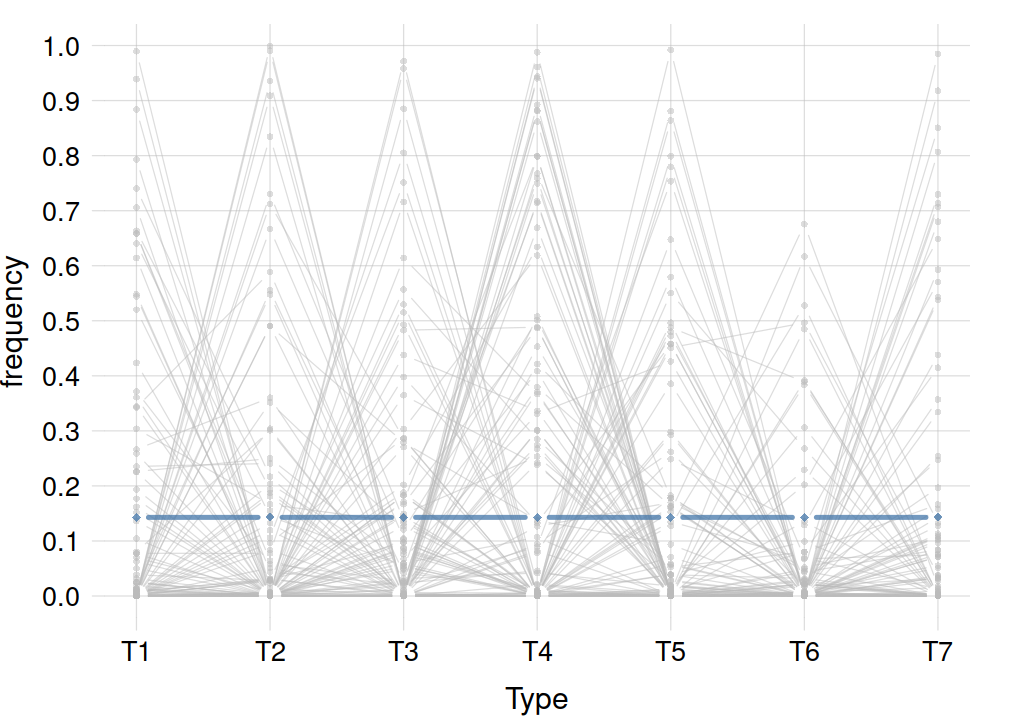
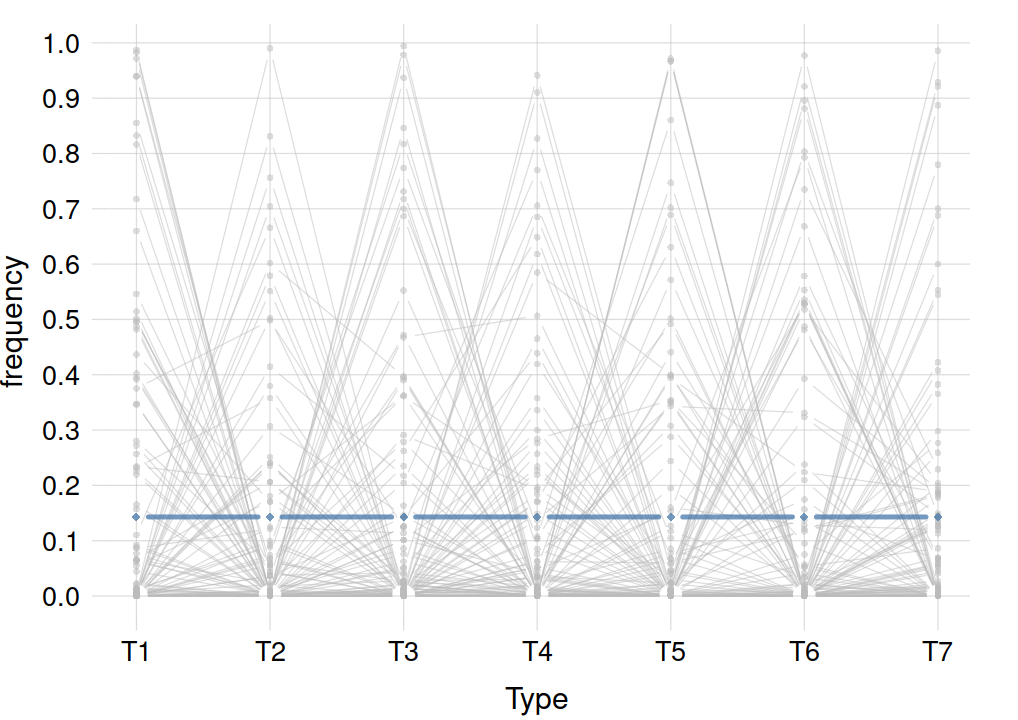
update population inference

diff --git a/docs/glass_application_R.html b/docs/glass_application_R.html
@@ -477,29 +477,29 @@ pre > code.sourceCode > span > a:first-child::before { text-decoration: underlin
 <li><p><span class="small"><em>Units</em>: glass fragments collected at particularly defined crime scenes.</span></p></li>
 <li><p><span class="small"><em>Variates</em>:</span></p>
 <ul>
-<li><span class="small"><span class="math inline">\(\mathit{RI}\)</span>, ordinal, domain <span class="math inline">\(\set{1,\dotsc,5}\)</span>: Refractive Index of the fragment</span></li>
-<li><span class="small"><span class="math inline">\(\mathit{Na}\)</span>, ordinal, domain <span class="math inline">\(\set{1,\dotsc,5}\)</span>: Natrium content of the fragment</span></li>
-<li><span class="small"><span class="math inline">\(\mathit{Mg}\)</span>, ordinal, domain <span class="math inline">\(\set{1,\dotsc,5}\)</span>: Magnesium content of the fragment</span></li>
-<li><span class="small"><span class="math inline">\(\mathit{Al}\)</span>, ordinal, domain <span class="math inline">\(\set{1,\dotsc,5}\)</span>: Aluminium content of the fragment</span></li>
-<li><span class="small"><span class="math inline">\(\mathit{Si}\)</span>, ordinal, domain <span class="math inline">\(\set{1,\dotsc,5}\)</span>: Silicon content of the fragment</span></li>
-<li><span class="small"><span class="math inline">\(\mathit{K}\)</span>, ordinal, domain <span class="math inline">\(\set{1,\dotsc,5}\)</span>: Potassium content of the fragment</span></li>
-<li><span class="small"><span class="math inline">\(\mathit{Ca}\)</span>, ordinal, domain <span class="math inline">\(\set{1,\dotsc,5}\)</span>: Calcium content of the fragment</span></li>
-<li><span class="small"><span class="math inline">\(\mathit{Ba}\)</span>, ordinal, domain <span class="math inline">\(\set{1,\dotsc,5}\)</span>: Barium content of the fragment</span></li>
-<li><span class="small"><span class="math inline">\(\mathit{Fe}\)</span>, ordinal, domain <span class="math inline">\(\set{1,\dotsc,5}\)</span>: Iron content of the fragment</span></li>
-<li><span class="small"><span class="math inline">\(\mathit{Type}\)</span>, nominal, domain <span class="math inline">\(\set{\texttt{\small T1},\dots,\texttt{\small T7}}\)</span>: Type or origin of the glass fragment</span></li>
+<li><span class="small"><span class="math inline">\(\mathit{RI}\)</span>, ordinal, domain <span class="math inline">\(\set{1,\dotsc,4}\)</span>: Refractive Index of the fragment</span></li>
+<li><span class="small"><span class="math inline">\(\mathit{Na}\)</span>, ordinal, domain <span class="math inline">\(\set{1,\dotsc,4}\)</span>: Natrium content of the fragment</span></li>
+<li><span class="small"><span class="math inline">\(\mathit{Mg}\)</span>, ordinal, domain <span class="math inline">\(\set{1,\dotsc,4}\)</span>: Magnesium content of the fragment</span></li>
+<li><span class="small"><span class="math inline">\(\mathit{Al}\)</span>, ordinal, domain <span class="math inline">\(\set{1,\dotsc,4}\)</span>: Aluminium content of the fragment</span></li>
+<li><span class="small"><span class="math inline">\(\mathit{Si}\)</span>, ordinal, domain <span class="math inline">\(\set{1,\dotsc,4}\)</span>: Silicon content of the fragment</span></li>
+<li><span class="small"><span class="math inline">\(\mathit{K}\)</span>, ordinal, domain <span class="math inline">\(\set{1,\dotsc,4}\)</span>: Potassium content of the fragment</span></li>
+<li><span class="small"><span class="math inline">\(\mathit{Ca}\)</span>, ordinal, domain <span class="math inline">\(\set{1,\dotsc,4}\)</span>: Calcium content of the fragment</span></li>
+<li><span class="small"><span class="math inline">\(\mathit{Ba}\)</span>, ordinal, domain <span class="math inline">\(\set{1,\dotsc,4}\)</span>: Barium content of the fragment</span></li>
+<li><span class="small"><span class="math inline">\(\mathit{Fe}\)</span>, ordinal, domain <span class="math inline">\(\set{1,\dotsc,4}\)</span>: Iron content of the fragment</span></li>
+<li><span class="small"><span class="math inline">\(\mathit{Type}\)</span>, nominal, domain <span class="math inline">\(\set{\texttt{\small T1},\dotsc,\texttt{\small T7}}\)</span>: Type or origin of the glass fragment</span></li>
 </ul>
-<p><span class="small">The values for the <span class="math inline">\(\mathit{RI}\)</span> and content variates represent ranges of numeric values or percentages, which you can find in <a href="datasets/glass_metadata-5_lev.csv">this metadata file</a>. In the same file you also find the description of the glass types.</span></p></li>
+<p><span class="small">The values for the <span class="math inline">\(\mathit{RI}\)</span> and content variates represent ranges of numeric values or percentages, which you can find in <a href="datasets/glass_metadata-4_lev.csv">this metadata file</a>. In the same file you also find the description of the glass types.</span></p></li>
 </ul>
-<p>We have a sample of 214 units from this population; their variate values are stored in <a href="datasets/glass_data-5_lev.csv">this data file</a>. Here are the first five units:</p>
+<p>We have a sample of 214 units from this population; their variate values are stored in <a href="datasets/glass_data-4_lev.csv">this data file</a>. Here are the first five units:</p>
 <div class="cell" data-execution_count="3">
-<div class="sourceCode cell-code" id="cb2"><pre class="sourceCode r code-with-copy"><code class="sourceCode r"><span id="cb2-1"><a href="#cb2-1" aria-hidden="true" tabindex="-1"></a><span class="fu">print</span>(<span class="fu">head</span>(<span class="fu">fread</span>(<span class="st">'datasets/glass_data-5_lev.csv'</span>), <span class="dv">5</span>))</span></code><button title="Copy to Clipboard" class="code-copy-button"><i class="bi"></i></button></pre></div>
+<div class="sourceCode cell-code" id="cb2"><pre class="sourceCode r code-with-copy"><code class="sourceCode r"><span id="cb2-1"><a href="#cb2-1" aria-hidden="true" tabindex="-1"></a><span class="fu">print</span>(<span class="fu">head</span>(<span class="fu">fread</span>(<span class="st">'datasets/glass_data-4_lev.csv'</span>), <span class="dv">5</span>))</span></code><button title="Copy to Clipboard" class="code-copy-button"><i class="bi"></i></button></pre></div>
 <div class="cell-output cell-output-stdout">
 <pre><code>   Id RI Na Mg Al Si K Ca Ba Fe Type
-1:  1  2  2  5  3  3 1  2  1  1   T2
-2:  2  2  2  4  3  3 1  2  1  1   T2
-3:  3  3  3  5  2  2 1  2  1  1   T1
-4:  4  2  3  2  3  3 1  2  2  1   T4
-5:  5  2  2  4  2  3 1  2  1  1   T1</code></pre>
+1:  1  2  2  4  2  3 1  2  1  1   T2
+2:  2  2  1  3  2  3 1  2  1  1   T2
+3:  3  2  2  4  2  2 1  2  1  1   T1
+4:  4  1  2  2  2  3 1  2  1  1   T4
+5:  5  2  2  3  2  3 1  2  1  1   T1</code></pre>
 </div>
 </div>
 <p><br>
@@ -519,7 +519,7 @@ pre > code.sourceCode > span > a:first-child::before { text-decoration: underlin
 <p>Our agent at the moment doesn’t know anything at all, not even about the existence of the population above. If we were to ask it anything, we would just get a blank stare back.</p>
 <p>Let us give it the basic background information about the population: the variates’ names and domains. We do this through the function <code>finfo()</code>: it has a <code>data</code> argument, which we omit for the moment, and a <code>metadata</code> argument. The latter can simply be the name of the file containing the metadata (NB: this file must have a specific format):</p>
 <div class="cell" data-execution_count="4">
-<div class="sourceCode cell-code" id="cb5"><pre class="sourceCode r code-with-copy"><code class="sourceCode r"><span id="cb5-1"><a href="#cb5-1" aria-hidden="true" tabindex="-1"></a>priorknowledge <span class="ot">&lt;-</span> <span class="fu">finfo</span>(<span class="at">metadata=</span><span class="st">'datasets/glass_metadata-5_lev.csv'</span>)</span></code><button title="Copy to Clipboard" class="code-copy-button"><i class="bi"></i></button></pre></div>
+<div class="sourceCode cell-code" id="cb5"><pre class="sourceCode r code-with-copy"><code class="sourceCode r"><span id="cb5-1"><a href="#cb5-1" aria-hidden="true" tabindex="-1"></a>priorknowledge <span class="ot">&lt;-</span> <span class="fu">finfo</span>(<span class="at">metadata=</span><span class="st">'datasets/glass_metadata-4_lev.csv'</span>)</span></code><button title="Copy to Clipboard" class="code-copy-button"><i class="bi"></i></button></pre></div>
 </div>
 <div class="page-columns page-full"><p>The agent now possesses this basic background knowlege, encoded in the <code>priorknowledge</code> object. The encoding uses a particular mathematical representation which, however, is of no interest to us<a href="#fn1" class="footnote-ref" id="fnref1" role="doc-noteref"><sup>1</sup></a>. Other representations could also be used, but the knowledge would be the same. Think of this as encoding an image into a <code>png</code> or other lossless format: the representation of the image would be different, but the image would be the same.</p><div class="no-row-height column-margin column-container"><li id="fn1"><p><sup>1</sup>&nbsp;If you’re curious you can have a glimpse at it with the command <code>str(priorknowledge)</code>, which displays structural information about an object.</p></li></div></div>
 </section>
@@ -592,7 +592,7 @@ pre > code.sourceCode > span > a:first-child::before { text-decoration: underlin
 <h3 class="anchored" data-anchor-id="learning-from-the-sample-data">Learning from the sample data</h3>
 <p>Now let’s give the agent the data from the sample of 214 glass fragments. This is done again with the <code>finfo()</code> function, but providing the <code>data</code> argument, which can be the name of the data file:</p>
 <div class="cell" data-execution_count="8">
-<div class="sourceCode cell-code" id="cb9"><pre class="sourceCode r code-with-copy"><code class="sourceCode r"><span id="cb9-1"><a href="#cb9-1" aria-hidden="true" tabindex="-1"></a>postknowledge <span class="ot">&lt;-</span> <span class="fu">finfo</span>(<span class="at">data=</span><span class="st">'datasets/glass_data-5_lev.csv'</span>, <span class="at">metadata=</span><span class="st">'datasets/glass_metadata-5_lev.csv'</span>)</span></code><button title="Copy to Clipboard" class="code-copy-button"><i class="bi"></i></button></pre></div>
+<div class="sourceCode cell-code" id="cb9"><pre class="sourceCode r code-with-copy"><code class="sourceCode r"><span id="cb9-1"><a href="#cb9-1" aria-hidden="true" tabindex="-1"></a>postknowledge <span class="ot">&lt;-</span> <span class="fu">finfo</span>(<span class="at">data=</span><span class="st">'datasets/glass_data-4_lev.csv'</span>, <span class="at">metadata=</span><span class="st">'datasets/glass_metadata-4_lev.csv'</span>)</span></code><button title="Copy to Clipboard" class="code-copy-button"><i class="bi"></i></button></pre></div>
 </div>
 <p>The <code>postknowledge</code> object contains the agent’s knowledge from the metadata and the sample data. This object can be used in the same way as the object representing the agent’s background knowledge.</p>
 </section>
@@ -615,8 +615,8 @@ pre > code.sourceCode > span > a:first-child::before { text-decoration: underlin
 </ul>
 <p>And there are other more specific aspects that can be found by visual inspection. For instance:</p>
 <ul>
-<li><p>Some frequency distributions have their absolute maximum at <span style="display:inline-block;"><span class="math inline">\(\texttt{\small T1}\)</span>,</span> and a lower frequency at <span style="display:inline-block;"><span class="math inline">\(\texttt{\small T2}\)</span>.</span> Others have their absolute maximum at <span style="display:inline-block;"><span class="math inline">\(\texttt{\small T2}\)</span></span> and a lower value at <span style="display:inline-block;"><span class="math inline">\(\texttt{\small T1}\)</span>.</span> So there’s still uncertainty as to which value is the most frequent in the full population.</p></li>
-<li><p>The agent gives a very small but non-zero frequency to the value <span style="display:inline-block;"><span class="math inline">\(\texttt{\small T7}\)</span>.</span> Yet, the data <strong>have no units at all with the <span class="math inline">\(\texttt{\small T7}\)</span> value</strong>. Even if the agent has never seen this value in the data it was given, it knows nevertheless, from the metadata, that this is a possible value. So the agent doesn’t dogmatically say that its frequency in the full population should be zero (as in the sample); only that it should be extremely low.</p></li>
+<li><p>Some frequency distributions have their absolute maximum at <span style="display:inline-block;"><span class="math inline">\(\texttt{\small T1}\)</span>,</span> and a lower value at <span style="display:inline-block;"><span class="math inline">\(\texttt{\small T2}\)</span>.</span> Vice versa, others have their absolute maximum at <span style="display:inline-block;"><span class="math inline">\(\texttt{\small T2}\)</span></span> and a lower value at <span style="display:inline-block;"><span class="math inline">\(\texttt{\small T1}\)</span>.</span> So there’s still uncertainty as to which value is the most frequent in the full population.</p></li>
+<li><p>The agent gives a very small but non-zero frequency to the value <span style="display:inline-block;"><span class="math inline">\(\texttt{\small T7}\)</span>.</span> Yet, <em>the data have no units at all with the <span class="math inline">\(\texttt{\small T7}\)</span> value</em>. Even if the agent has never seen this value in the data it was given, it knows nevertheless, from the metadata, that this is a possible value. So the agent doesn’t dogmatically say that its frequency in the full population should be zero (as in the sample); only that it should be extremely low.</p></li>
 </ul>
 <div class="callout callout-style-default callout-caution no-icon callout-titled">
 <div class="callout-header d-flex align-content-center">
@@ -628,7 +628,7 @@ pre > code.sourceCode > span > a:first-child::before { text-decoration: underlin
 </div>
 </div>
 <div class="callout-body-container callout-body">
-<p>Given that the value <span style="display:inline-block;"><span class="math inline">\(\texttt{\small T7}\)</span></span> has not been observed in 214 units, what approximate upper bound to its frequency would you give? Does the agent inference agree with your intuition?</p>
+<p>Given that the value <span style="display:inline-block;"><span class="math inline">\(\texttt{\small T7}\)</span></span> has not been observed in 214 units, what approximate upper bound to its frequency would you give? Does the agent’s inference agree with your intuition?</p>
 </div>
 </div>
 </section>
@@ -638,20 +638,25 @@ pre > code.sourceCode > span > a:first-child::before { text-decoration: underlin
 <div class="cell" data-execution_count="10">
 <div class="sourceCode cell-code" id="cb11"><pre class="sourceCode r code-with-copy"><code class="sourceCode r"><span id="cb11-1"><a href="#cb11-1" aria-hidden="true" tabindex="-1"></a><span class="fu">plotsamples1D</span>(<span class="at">finfo=</span>postknowledge_type)</span></code><button title="Copy to Clipboard" class="code-copy-button"><i class="bi"></i></button></pre></div>
 <div class="cell-output cell-output-display">
-<p><img src="glass_application_R_files/figure-html/cell-11-output-1.png" class="img-fluid"></p>
+<div id="fig-unconditional-glass" class="quarto-figure quarto-figure-center anchored">
+<figure class="figure">
+<p><img src="glass_application_R_files/figure-html/fig-unconditional-glass-output-1.png" class="img-fluid figure-img"></p>
+<figcaption class="figure-caption">Figure&nbsp;1: <span class="grey">Frequency distributions for full population</span>, and <span class="blue">probability distribution for next unit</span></figcaption>
+</figure>
+</div>
 </div>
 </div>
 </section>
 </section>
 <section id="conditional-discriminative-or-supervised-learning-inferences" class="level2 page-columns page-full" data-number="4">
 <h2 data-number="4" class="anchored" data-anchor-id="conditional-discriminative-or-supervised-learning-inferences"><span class="header-section-number">4</span> Conditional, “discriminative” or “supervised-learning” inferences</h2>
-<p>The inferences about a new units that the agent has made so far were of an “unsupervised-learning” or “generative” kind ([§&nbsp;sec-2nd-connection-ML]): the agent did not receive or use any partial information about a new unit. Let’s now try a “supervised-learning” or “generative” kind of inference.</p>
+<p>The inferences about a new units that the agent has made so far were of an “unsupervised-learning” or “generative” kind ([§&nbsp;sec-2nd-connection-ML]): the agent did not receive or use any partial information about a new unit. Let’s now try a “supervised-learning” or “discriminative” kind of inference.</p>
 <p>Imagine that we are at a new crime scene, a glass fragment is recovered, and tests are made about its refractive index and chemical composition. The following values are found, referred to the levels of our variates:</p>
 
 <div class="no-row-height column-margin column-container"><div class="">
 <p><img src="glass_crimescene.jpg" class="img-fluid" style="width:100.0%"></p>
 </div></div><div class="cell" data-execution_count="11">
-<div class="sourceCode cell-code" id="cb12"><pre class="sourceCode r code-with-copy"><code class="sourceCode r"><span id="cb12-1"><a href="#cb12-1" aria-hidden="true" tabindex="-1"></a>newfragment <span class="ot">&lt;-</span> <span class="fu">c</span>(<span class="at">RI=</span><span class="dv">2</span>, <span class="at">Na=</span><span class="dv">2</span>,  <span class="at">Mg=</span><span class="dv">4</span>,  <span class="at">Al=</span><span class="dv">3</span>,  <span class="at">Si=</span><span class="dv">3</span>,  <span class="at">K=</span><span class="dv">1</span>, <span class="at">Ca=</span><span class="dv">2</span>,  <span class="at">Ba=</span><span class="dv">1</span>,  <span class="at">Fe=</span><span class="dv">1</span>)</span></code><button title="Copy to Clipboard" class="code-copy-button"><i class="bi"></i></button></pre></div>
+<div class="sourceCode cell-code" id="cb12"><pre class="sourceCode r code-with-copy"><code class="sourceCode r"><span id="cb12-1"><a href="#cb12-1" aria-hidden="true" tabindex="-1"></a>newfragment <span class="ot">&lt;-</span> <span class="fu">c</span>(<span class="at">RI=</span><span class="dv">2</span>, <span class="at">Na=</span><span class="dv">2</span>,  <span class="at">Mg=</span><span class="dv">3</span>,  <span class="at">Al=</span><span class="dv">2</span>,  <span class="at">Si=</span><span class="dv">3</span>,  <span class="at">K=</span><span class="dv">1</span>, <span class="at">Ca=</span><span class="dv">2</span>,  <span class="at">Ba=</span><span class="dv">1</span>,  <span class="at">Fe=</span><span class="dv">1</span>)</span></code><button title="Copy to Clipboard" class="code-copy-button"><i class="bi"></i></button></pre></div>
 </div>
 <p>The detectives would like to know what’s the possible origin of this fragment, that is, its <span style="display:inline-block;"><span class="math inline">\(\mathit{Type}\)</span>.</span> Our agent can draw this inference.</p>
 <p>First, the agent can calculate the probability distribution over the <em>conditional frequencies</em> (<a href="subpopulations.html#sec-conditional-freqs">§&nbsp;&nbsp;<span>17.2</span></a>) of the <span style="display:inline-block;"><span class="math inline">\(\mathit{Type}\)</span></span> values for the subpopulation (<a href="subpopulations.html#sec-subpopulations">§&nbsp;&nbsp;<span>17.1</span></a>) of units having the specific variate values above. This calculation is done with the function <code>fconditional()</code>, with arguments <code>finfo</code>: the agent’s current knowledge, and <code>unitdata</code>: the partial data obtained from the unit.</p>
@@ -665,11 +670,17 @@ pre > code.sourceCode > span > a:first-child::before { text-decoration: underlin
 <div class="cell" data-execution_count="13">
 <div class="sourceCode cell-code" id="cb14"><pre class="sourceCode r code-with-copy"><code class="sourceCode r"><span id="cb14-1"><a href="#cb14-1" aria-hidden="true" tabindex="-1"></a><span class="fu">plotsamples1D</span>(<span class="at">finfo=</span>condknowledge_type)</span></code><button title="Copy to Clipboard" class="code-copy-button"><i class="bi"></i></button></pre></div>
 <div class="cell-output cell-output-display">
-<p><img src="glass_application_R_files/figure-html/cell-14-output-1.png" class="img-fluid"></p>
+<div id="fig-conditional-glass" class="quarto-figure quarto-figure-center anchored">
+<figure class="figure">
+<p><img src="glass_application_R_files/figure-html/fig-conditional-glass-output-1.png" class="img-fluid figure-img"></p>
+<figcaption class="figure-caption">Figure&nbsp;2: <span class="grey">Conditional frequency distributions for full population</span>, and <span class="blue">conditional probability distribution for next unit</span></figcaption>
+</figure>
 </div>
 </div>
-<p>The agent thus gives a probability around <span style="display:inline-block;"><span class="math inline">\(90\%\)</span></span> to the fragment’s being of <span style="display:inline-block;"><span class="math inline">\(\texttt{\small T2}\)</span></span> type, and around <span style="display:inline-block;"><span class="math inline">\(5\%\)</span></span> each of being <span style="display:inline-block;"><span class="math inline">\(\texttt{\small T1}\)</span></span> or <span style="display:inline-block;"><span class="math inline">\(\texttt{\small T6}\)</span></span> type. It also shows that further training data could change these probabilities by around <span style="display:inline-block;"><span class="math inline">\(\pm 10\%\)</span>.</span></p>
-<p>Should the crime investigation proceed on the assumption that the fragment is of <span style="display:inline-block;"><span class="math inline">\(\texttt{\small T2}\)</span></span> type? No, not necessarily. The best decision depends on the gains and costs involved in making correct or wrong assumptions. To this last decision-making problem we turn next.</p>
+</div>
+<p>The agent thus gives a probability around <span style="display:inline-block;"><span class="math inline">\(80\%\)</span></span> to the fragment’s being of <span style="display:inline-block;"><span class="math inline">\(\texttt{\small T1}\)</span></span> type, around <span style="display:inline-block;"><span class="math inline">\(10\%\)</span></span> of being <span style="display:inline-block;"><span class="math inline">\(\texttt{\small T2}\)</span></span> type, and around <span style="display:inline-block;"><span class="math inline">\(5\%\)</span></span> of being <span style="display:inline-block;"><span class="math inline">\(\texttt{\small T5}\)</span></span> type. It also shows that further training data could change these probabilities by even <span style="display:inline-block;"><span class="math inline">\(\pm 10\%\)</span></span> or even <span style="display:inline-block;"><span class="math inline">\(\pm 15\%\)</span>.</span></p>
+<p>Note how the possible conditional frequency distributions for <span style="display:inline-block;"><span class="math inline">\(\mathit{Type}\)</span></span> and the probability distribution differ from the unconditional ones shown in <a href="#fig-unconditional-glass">fig.&nbsp;&nbsp;<span>1</span></a>. The global maximum, $80%, is now sharper than the one for the unconditional case, <span style="display:inline-block;"><span class="math inline">\(35\%\)</span>.</span> This means that knowledge of the other variates for the present fragment has decreased the agent’s uncertainty as regards its type.</p>
+<p>Should the crime investigation proceed on the assumption that the fragment is of <span style="display:inline-block;"><span class="math inline">\(\texttt{\small T1}\)</span></span> type? No, not necessarily. The best decision depends on the gains and costs involved in making correct or wrong assumptions. To this last decision-making problem we turn next.</p>
 <div class="callout callout-style-default callout-caution no-icon callout-titled">
 <div class="callout-header d-flex align-content-center">
 <div class="callout-icon-container">

diff --git a/docs/index.html b/docs/index.html
@@ -8,7 +8,7 @@
 
 <meta name="author" content="Steffen Mæland">
 <meta name="author" content="PierGianLuca Porta Mana">
-<meta name="dcterms.date" content="2023-08-10">
+<meta name="dcterms.date" content="2023-08-11">
 
 <title>ADA511 0.1 Data science and data-driven engineering</title>
 <style>
@@ -422,7 +422,7 @@ ul.task-list li input[type="checkbox"] {
     <div>
     <div class="quarto-title-meta-heading">Published</div>
     <div class="quarto-title-meta-contents">
-      <p class="date">2023-08-10</p>
+      <p class="date">2023-08-11</p>
     </div>
   </div>
   
